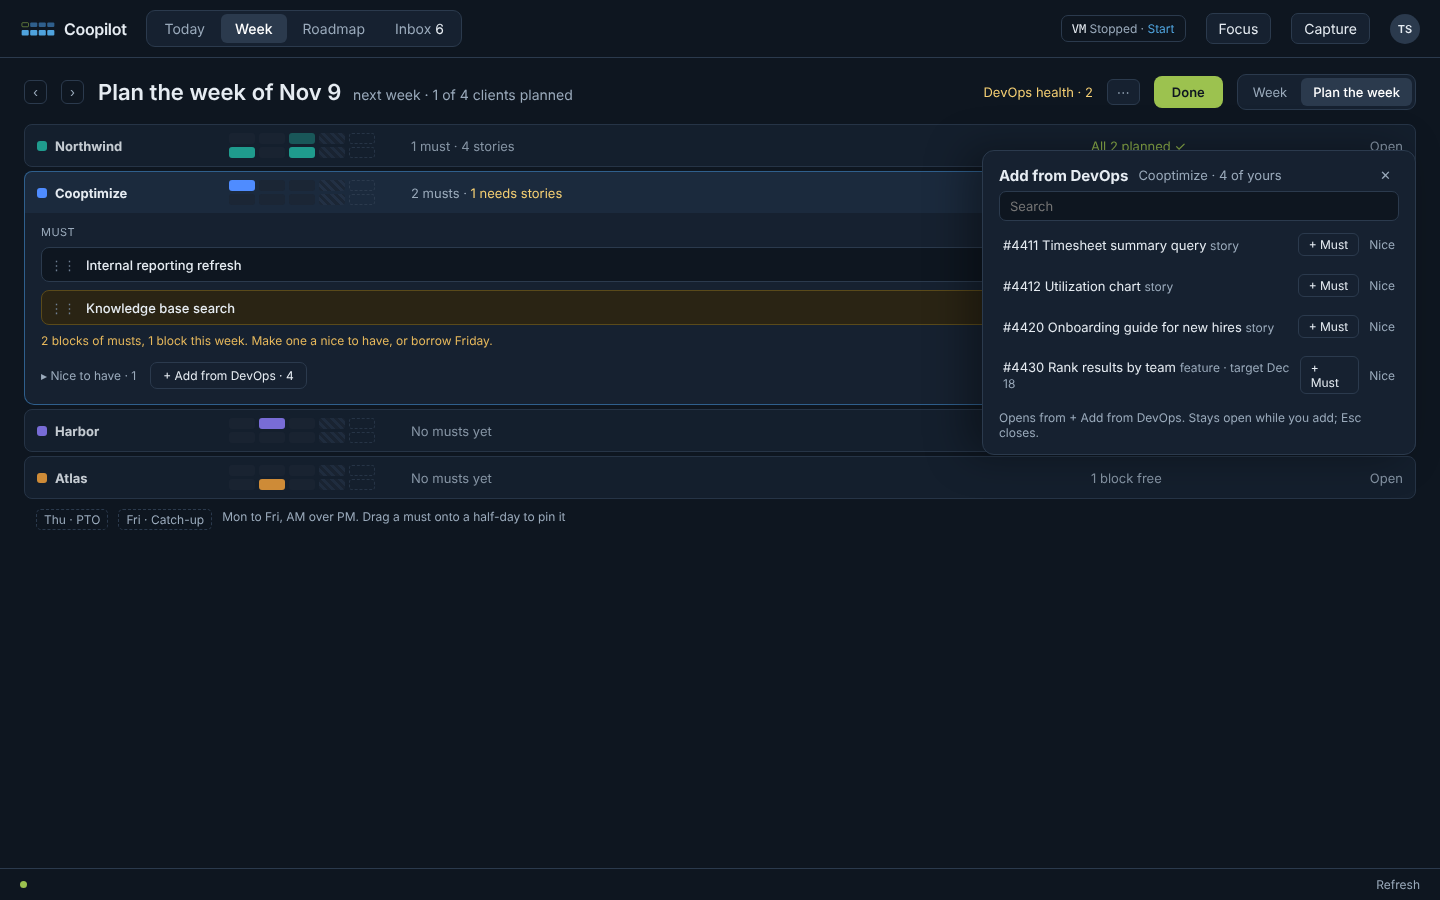
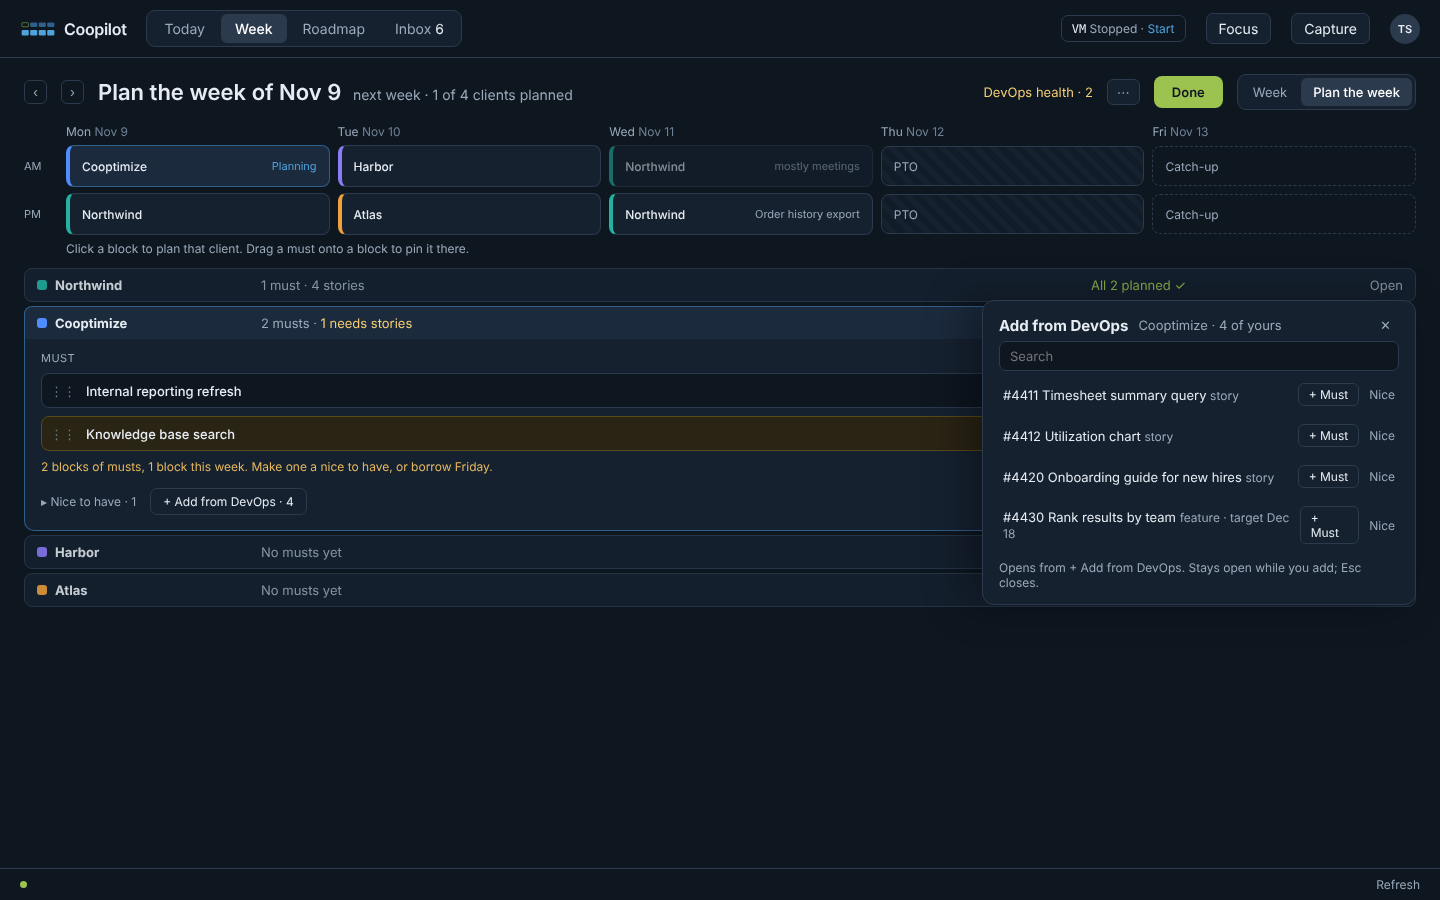
docs(ux): U6 mockup, stacked block grid at the top as the client filter
Claude-Session: https://claude.ai/code/session_01MZF2GqKMibQqfjVqhaCnWC

diff --git a/docs/ux/U2/mockups/source/PlanWeek2.dc.html b/docs/ux/U2/mockups/source/PlanWeek2.dc.html
@@ -49,18 +49,38 @@ a{color:#4FA3DD;text-decoration:none}a:hover{color:#8CC6EC}
     </div>
   </section>
 
-  <section style="padding: 14px 24px 0; display: flex; flex-direction: column; gap: 4px">
-    <div style="display: grid; grid-template-columns: 180px 170px 1fr 180px 120px; gap: 12px; align-items: center; padding: 8px 12px; border-radius: 8px; background: #162130; border: 1px solid #2B3A4D; opacity: 0.85">
+
+  <section style="padding: 14px 24px 0; display: grid; grid-template-columns: 34px repeat(5, minmax(0, 1fr)); gap: 6px 8px; align-items: center; font-size: 12px">
+    <span></span>
+    <span style="color: #9AAABB">Mon <span style="color: #6F8094">Nov 9</span></span><span style="color: #9AAABB">Tue <span style="color: #6F8094">Nov 10</span></span><span style="color: #9AAABB">Wed <span style="color: #6F8094">Nov 11</span></span><span style="color: #9AAABB">Thu <span style="color: #6F8094">Nov 12</span></span><span style="color: #9AAABB">Fri <span style="color: #6F8094">Nov 13</span></span>
+    <span style="color: #9AAABB; font-size: 11px">AM</span>
+    <a href="PlanWeek2.dc.html" style="display: flex; align-items: center; gap: 8px; height: 40px; padding: 0 12px; border-radius: 8px; background: #1B2A3D; border: 1px solid #2F5F8C; border-left: 4px solid #4F8CFF; color: #E6ECF2; "><b style="font-weight: 500">Cooptimize</b><span style="margin-left: auto; font-size: 11px; color: #4FA3DD">Planning</span></a>
+    <a href="PlanWeek2.dc.html" style="display: flex; align-items: center; gap: 8px; height: 40px; padding: 0 12px; border-radius: 8px; background: #162130; border: 1px solid #2B3A4D; border-left: 4px solid #8B7CF6; color: #E6ECF2; "><b style="font-weight: 500">Harbor</b></a>
+    <a href="PlanWeek2.dc.html" style="display: flex; align-items: center; gap: 8px; height: 40px; padding: 0 12px; border-radius: 8px; background: #162130; border: 1px solid #2B3A4D; border-left: 4px solid #22B3A1; color: #E6ECF2; opacity: 0.55;"><b style="font-weight: 500">Northwind</b><span style="margin-left: auto; font-size: 11px; color: #9AAABB">mostly meetings</span></a>
+    <span style="display: flex; align-items: center; height: 40px; padding: 0 12px; border-radius: 8px; background: repeating-linear-gradient(45deg, #121C28, #121C28 6px, #162130 6px, #162130 12px); border: 1px solid #2B3A4D; color: #9AAABB; box-sizing: border-box">PTO</span>
+    <span style="display: flex; align-items: center; height: 40px; padding: 0 12px; border-radius: 8px; background: transparent; border: 1px dashed #2B3A4D; color: #9AAABB; box-sizing: border-box">Catch-up</span>
+    <span style="color: #9AAABB; font-size: 11px">PM</span>
+    <a href="PlanWeek2.dc.html" style="display: flex; align-items: center; gap: 8px; height: 40px; padding: 0 12px; border-radius: 8px; background: #162130; border: 1px solid #2B3A4D; border-left: 4px solid #22B3A1; color: #E6ECF2; "><b style="font-weight: 500">Northwind</b></a>
+    <a href="PlanWeek2.dc.html" style="display: flex; align-items: center; gap: 8px; height: 40px; padding: 0 12px; border-radius: 8px; background: #162130; border: 1px solid #2B3A4D; border-left: 4px solid #F0A03C; color: #E6ECF2; "><b style="font-weight: 500">Atlas</b></a>
+    <a href="PlanWeek2.dc.html" style="display: flex; align-items: center; gap: 8px; height: 40px; padding: 0 12px; border-radius: 8px; background: #162130; border: 1px solid #2B3A4D; border-left: 4px solid #22B3A1; color: #E6ECF2; "><b style="font-weight: 500">Northwind</b><span style="margin-left: auto; font-size: 11px; color: #9AAABB">Order history export</span></a>
+    <span style="display: flex; align-items: center; height: 40px; padding: 0 12px; border-radius: 8px; background: repeating-linear-gradient(45deg, #121C28, #121C28 6px, #162130 6px, #162130 12px); border: 1px solid #2B3A4D; color: #9AAABB; box-sizing: border-box">PTO</span>
+    <span style="display: flex; align-items: center; height: 40px; padding: 0 12px; border-radius: 8px; background: transparent; border: 1px dashed #2B3A4D; color: #9AAABB; box-sizing: border-box">Catch-up</span>
+    <span></span>
+    <span style="grid-column: 2 / 7; color: #9AAABB; font-size: 12px">Click a block to plan that client. Drag a must onto a block to pin it there.</span>
+  </section>
+
+  <section style="padding: 12px 24px 0; display: flex; flex-direction: column; gap: 4px">
+    <div style="display: grid; grid-template-columns: 180px 20px 1fr 180px 120px; gap: 12px; align-items: center; padding: 8px 12px; border-radius: 8px; background: #162130; border: 1px solid #2B3A4D; opacity: 0.85">
       <span style="display: flex; align-items: center; gap: 8px"><span style="width: 10px; height: 10px; border-radius: 3px; background: #22B3A1"></span><b>Northwind</b></span>
-      <span style="display: grid; grid-template-columns: repeat(5, 26px); grid-template-rows: 11px 11px; gap: 3px 4px" aria-label="Half-days this week"><span style="width: 26px; height: 11px; border-radius: 3px; background: #1B2635" title="Mon AM"></span><span style="width: 26px; height: 11px; border-radius: 3px; background: #1B2635" title="Tue AM"></span><span style="width: 26px; height: 11px; border-radius: 3px; background: #22B3A1; opacity: 0.45" title="Wed AM"></span><span style="width: 26px; height: 11px; border-radius: 3px; background: repeating-linear-gradient(45deg, #1B2635, #1B2635 3px, #223044 3px, #223044 6px)" title="Thu · PTO"></span><span style="width: 26px; height: 11px; border-radius: 3px; border: 1px dashed #2B3A4D; box-sizing: border-box" title="Fri · Catch-up"></span><span style="width: 26px; height: 11px; border-radius: 3px; background: #22B3A1; opacity: 1" title="Mon PM"></span><span style="width: 26px; height: 11px; border-radius: 3px; background: #1B2635" title="Tue PM"></span><span style="width: 26px; height: 11px; border-radius: 3px; background: #22B3A1; opacity: 1" title="Wed PM"></span><span style="width: 26px; height: 11px; border-radius: 3px; background: repeating-linear-gradient(45deg, #1B2635, #1B2635 3px, #223044 3px, #223044 6px)" title="Thu · PTO"></span><span style="width: 26px; height: 11px; border-radius: 3px; border: 1px dashed #2B3A4D; box-sizing: border-box" title="Fri · Catch-up"></span></span>
+      <span></span>
       <span style="color: #9AAABB">1 must · 4 stories</span>
       <span style="color: #9CC24F">All 2 planned ✓</span>
       <a href="PlanWeek2.dc.html" style="text-align: right; color: #9AAABB">Open</a>
     </div>
 
-    <div style="display: grid; grid-template-columns: 180px 170px 1fr 180px 120px; gap: 12px; align-items: center; padding: 8px 12px; border-radius: 8px 8px 0 0; background: #1B2A3D; border: 1px solid #2F5F8C; border-bottom: 0">
+    <div style="display: grid; grid-template-columns: 180px 20px 1fr 180px 120px; gap: 12px; align-items: center; padding: 8px 12px; border-radius: 8px 8px 0 0; background: #1B2A3D; border: 1px solid #2F5F8C; border-bottom: 0">
       <span style="display: flex; align-items: center; gap: 8px"><span style="width: 10px; height: 10px; border-radius: 3px; background: #4F8CFF"></span><b>Cooptimize</b></span>
-      <span style="display: grid; grid-template-columns: repeat(5, 26px); grid-template-rows: 11px 11px; gap: 3px 4px" aria-label="Half-days this week"><span style="width: 26px; height: 11px; border-radius: 3px; background: #4F8CFF; opacity: 1" title="Mon AM"></span><span style="width: 26px; height: 11px; border-radius: 3px; background: #1B2635" title="Tue AM"></span><span style="width: 26px; height: 11px; border-radius: 3px; background: #1B2635" title="Wed AM"></span><span style="width: 26px; height: 11px; border-radius: 3px; background: repeating-linear-gradient(45deg, #1B2635, #1B2635 3px, #223044 3px, #223044 6px)" title="Thu · PTO"></span><span style="width: 26px; height: 11px; border-radius: 3px; border: 1px dashed #2B3A4D; box-sizing: border-box" title="Fri · Catch-up"></span><span style="width: 26px; height: 11px; border-radius: 3px; background: #1B2635" title="Mon PM"></span><span style="width: 26px; height: 11px; border-radius: 3px; background: #1B2635" title="Tue PM"></span><span style="width: 26px; height: 11px; border-radius: 3px; background: #1B2635" title="Wed PM"></span><span style="width: 26px; height: 11px; border-radius: 3px; background: repeating-linear-gradient(45deg, #1B2635, #1B2635 3px, #223044 3px, #223044 6px)" title="Thu · PTO"></span><span style="width: 26px; height: 11px; border-radius: 3px; border: 1px dashed #2B3A4D; box-sizing: border-box" title="Fri · Catch-up"></span></span>
+      <span></span>
       <span style="color: #9AAABB">2 musts · <span style="color: #F5CF73">1 needs stories</span></span>
       <span style="color: #E6B85C">Over by 1 block</span>
       <span style="text-align: right; color: #E6ECF2; font-weight: 500">Planning</span>
@@ -78,24 +98,23 @@ a{color:#4FA3DD;text-decoration:none}a:hover{color:#8CC6EC}
       </div>
     </article>
 
-    <div style="display: grid; grid-template-columns: 180px 170px 1fr 180px 120px; gap: 12px; align-items: center; padding: 8px 12px; border-radius: 8px; background: #162130; border: 1px solid #2B3A4D; opacity: 0.85">
+    <div style="display: grid; grid-template-columns: 180px 20px 1fr 180px 120px; gap: 12px; align-items: center; padding: 8px 12px; border-radius: 8px; background: #162130; border: 1px solid #2B3A4D; opacity: 0.85">
       <span style="display: flex; align-items: center; gap: 8px"><span style="width: 10px; height: 10px; border-radius: 3px; background: #8B7CF6"></span><b>Harbor</b></span>
-      <span style="display: grid; grid-template-columns: repeat(5, 26px); grid-template-rows: 11px 11px; gap: 3px 4px" aria-label="Half-days this week"><span style="width: 26px; height: 11px; border-radius: 3px; background: #1B2635" title="Mon AM"></span><span style="width: 26px; height: 11px; border-radius: 3px; background: #8B7CF6; opacity: 1" title="Tue AM"></span><span style="width: 26px; height: 11px; border-radius: 3px; background: #1B2635" title="Wed AM"></span><span style="width: 26px; height: 11px; border-radius: 3px; background: repeating-linear-gradient(45deg, #1B2635, #1B2635 3px, #223044 3px, #223044 6px)" title="Thu · PTO"></span><span style="width: 26px; height: 11px; border-radius: 3px; border: 1px dashed #2B3A4D; box-sizing: border-box" title="Fri · Catch-up"></span><span style="width: 26px; height: 11px; border-radius: 3px; background: #1B2635" title="Mon PM"></span><span style="width: 26px; height: 11px; border-radius: 3px; background: #1B2635" title="Tue PM"></span><span style="width: 26px; height: 11px; border-radius: 3px; background: #1B2635" title="Wed PM"></span><span style="width: 26px; height: 11px; border-radius: 3px; background: repeating-linear-gradient(45deg, #1B2635, #1B2635 3px, #223044 3px, #223044 6px)" title="Thu · PTO"></span><span style="width: 26px; height: 11px; border-radius: 3px; border: 1px dashed #2B3A4D; box-sizing: border-box" title="Fri · Catch-up"></span></span>
+      <span></span>
       <span style="color: #9AAABB">No musts yet</span>
       <span style="color: #9AAABB">1 block free</span>
       <a href="PlanWeek2.dc.html" style="text-align: right; color: #9AAABB">Open</a>
     </div>
-    <div style="display: grid; grid-template-columns: 180px 170px 1fr 180px 120px; gap: 12px; align-items: center; padding: 8px 12px; border-radius: 8px; background: #162130; border: 1px solid #2B3A4D; opacity: 0.85">
+    <div style="display: grid; grid-template-columns: 180px 20px 1fr 180px 120px; gap: 12px; align-items: center; padding: 8px 12px; border-radius: 8px; background: #162130; border: 1px solid #2B3A4D; opacity: 0.85">
       <span style="display: flex; align-items: center; gap: 8px"><span style="width: 10px; height: 10px; border-radius: 3px; background: #F0A03C"></span><b>Atlas</b></span>
-      <span style="display: grid; grid-template-columns: repeat(5, 26px); grid-template-rows: 11px 11px; gap: 3px 4px" aria-label="Half-days this week"><span style="width: 26px; height: 11px; border-radius: 3px; background: #1B2635" title="Mon AM"></span><span style="width: 26px; height: 11px; border-radius: 3px; background: #1B2635" title="Tue AM"></span><span style="width: 26px; height: 11px; border-radius: 3px; background: #1B2635" title="Wed AM"></span><span style="width: 26px; height: 11px; border-radius: 3px; background: repeating-linear-gradient(45deg, #1B2635, #1B2635 3px, #223044 3px, #223044 6px)" title="Thu · PTO"></span><span style="width: 26px; height: 11px; border-radius: 3px; border: 1px dashed #2B3A4D; box-sizing: border-box" title="Fri · Catch-up"></span><span style="width: 26px; height: 11px; border-radius: 3px; background: #1B2635" title="Mon PM"></span><span style="width: 26px; height: 11px; border-radius: 3px; background: #F0A03C; opacity: 1" title="Tue PM"></span><span style="width: 26px; height: 11px; border-radius: 3px; background: #1B2635" title="Wed PM"></span><span style="width: 26px; height: 11px; border-radius: 3px; background: repeating-linear-gradient(45deg, #1B2635, #1B2635 3px, #223044 3px, #223044 6px)" title="Thu · PTO"></span><span style="width: 26px; height: 11px; border-radius: 3px; border: 1px dashed #2B3A4D; box-sizing: border-box" title="Fri · Catch-up"></span></span>
+      <span></span>
       <span style="color: #9AAABB">No musts yet</span>
       <span style="color: #9AAABB">1 block free</span>
       <a href="PlanWeek2.dc.html" style="text-align: right; color: #9AAABB">Open</a>
     </div>
-    <div style="display: flex; gap: 10px; padding: 6px 12px; font-size: 12px; color: #9AAABB"><span style="padding: 2px 7px; border-radius: 5px; border: 1px dashed #2B3A4D">Thu · PTO</span><span style="padding: 2px 7px; border-radius: 5px; border: 1px dashed #2B3A4D">Fri · Catch-up</span><span>Mon to Fri, AM over PM. Drag a must onto a half-day to pin it</span></div>
-  </section>
+      </section>
 
-  <aside style="position: absolute; right: 24px; top: 150px; width: 400px; background: #162130; border: 1px solid #2B3A4D; border-radius: 12px; padding: 14px 16px; display: flex; flex-direction: column; gap: 6px; box-shadow: -16px 0 40px rgba(0,0,0,0.35)">
+  <aside style="position: absolute; right: 24px; top: 300px; width: 400px; background: #162130; border: 1px solid #2B3A4D; border-radius: 12px; padding: 14px 16px; display: flex; flex-direction: column; gap: 6px; box-shadow: -16px 0 40px rgba(0,0,0,0.35)">
     <div style="display: flex; align-items: center; gap: 10px"><b style="font-size: 15px">Add from DevOps</b><span style="color: #9AAABB">Cooptimize · 4 of yours</span><span style="flex-grow: 1"></span><button aria-label="Close" style="font: inherit; padding: 2px 8px; border: 0; background: transparent; color: #9AAABB">✕</button></div>
     <input type="text" aria-label="Search" placeholder="Search" style="font: inherit; background: #0E1620; border: 1px solid #2B3A4D; border-radius: 7px; color: #E6ECF2; padding: 6px 10px">
     <div style="display: flex; align-items: center; gap: 10px; padding: 6px 4px"><span style="flex-grow: 1">#4411 Timesheet summary query <span style="color: #9AAABB; font-size: 12px">story</span></span><a href="PlanWeek2.dc.html" style="font-size: 12px; padding: 3px 10px; border-radius: 6px; border: 1px solid #2B3A4D; color: #E6ECF2">+ Must</a><a href="PlanWeek2.dc.html" style="font-size: 12px; color: #9AAABB">Nice</a></div>
